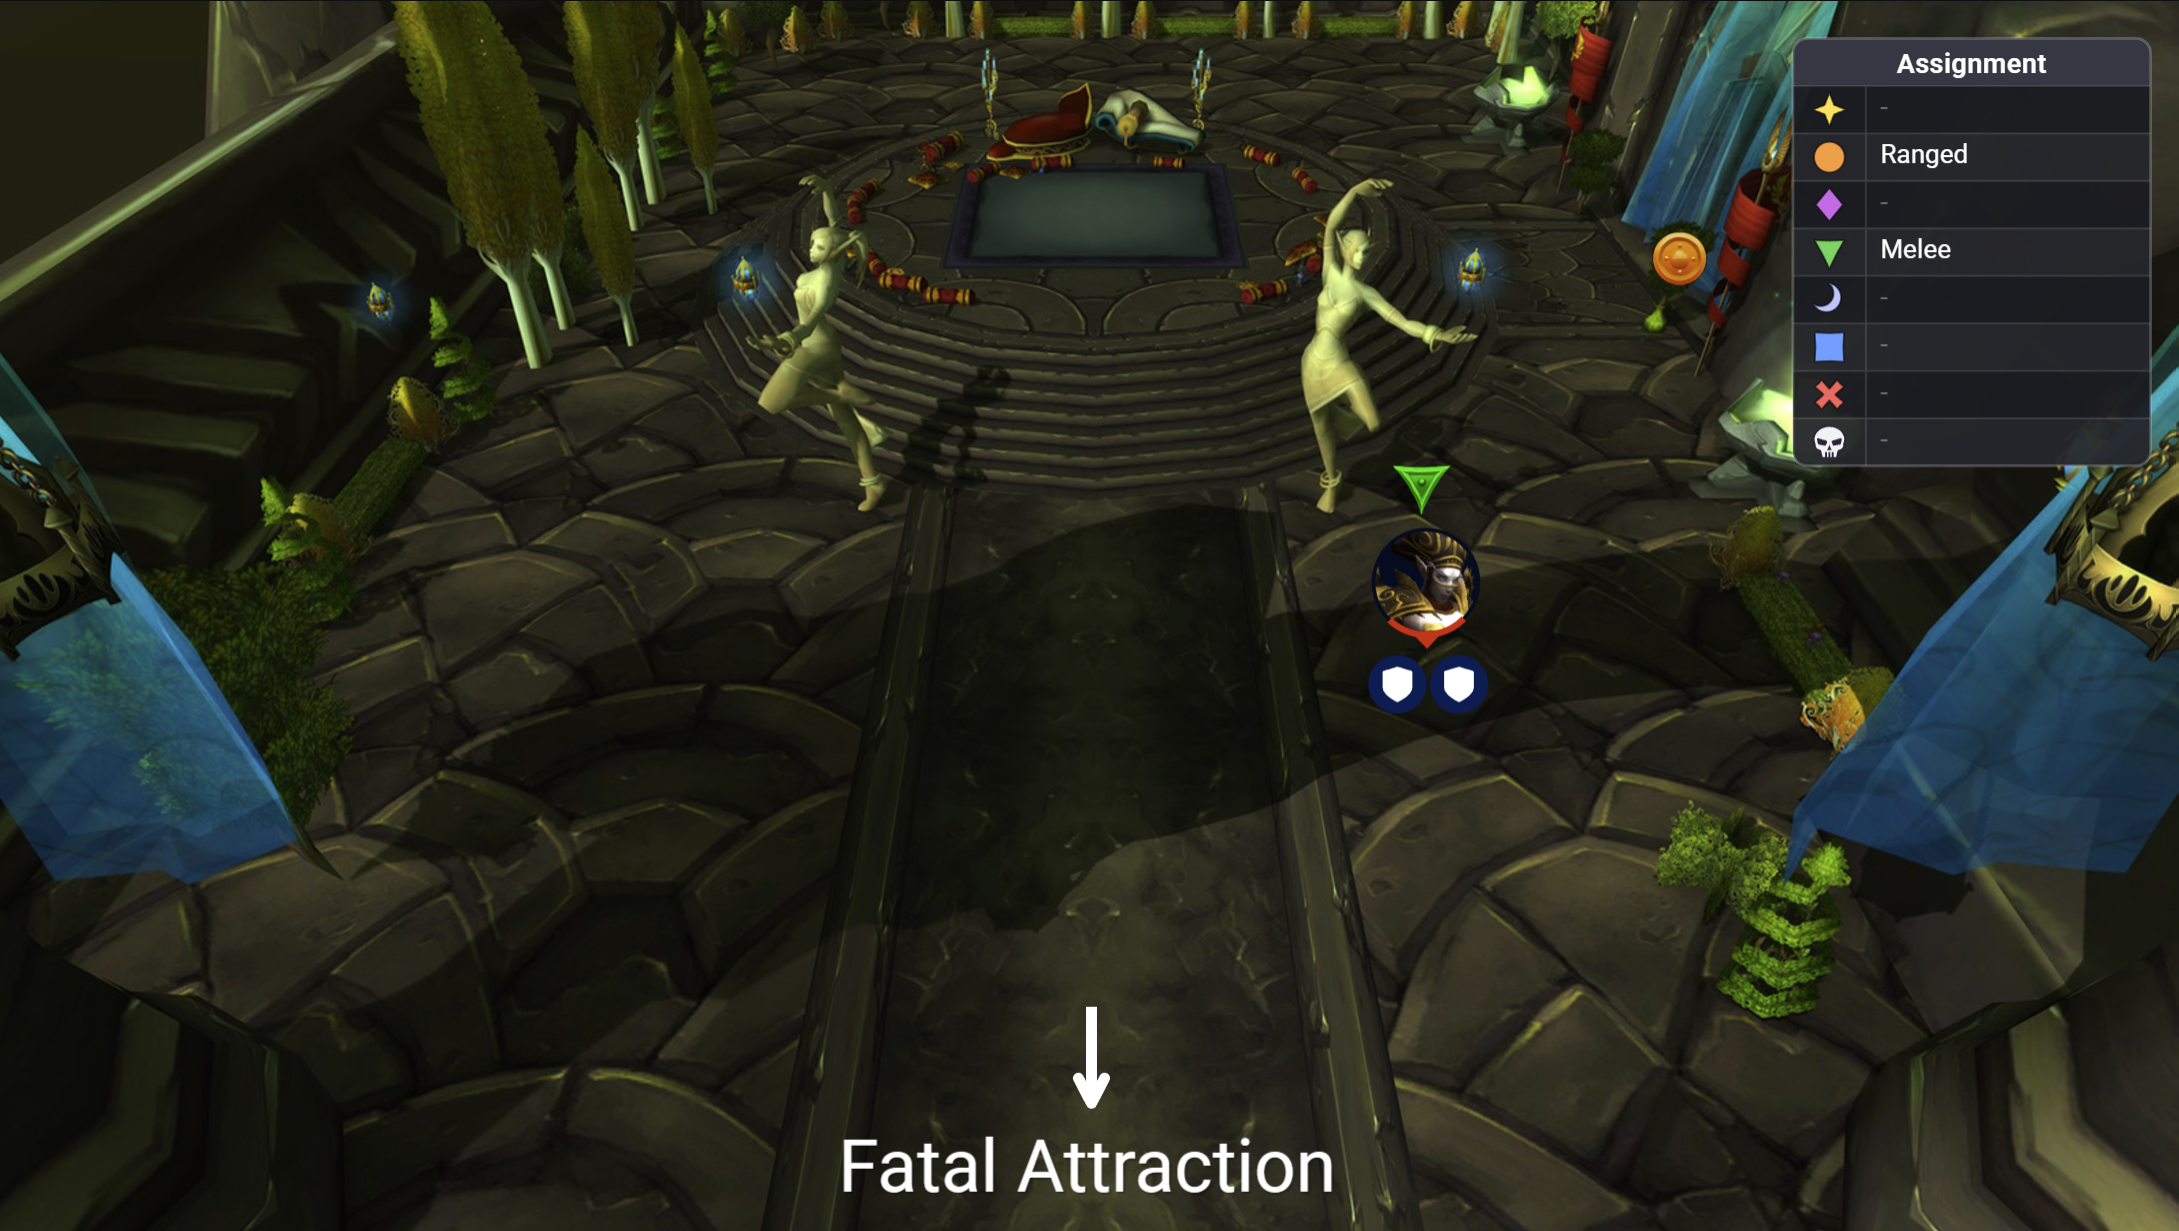
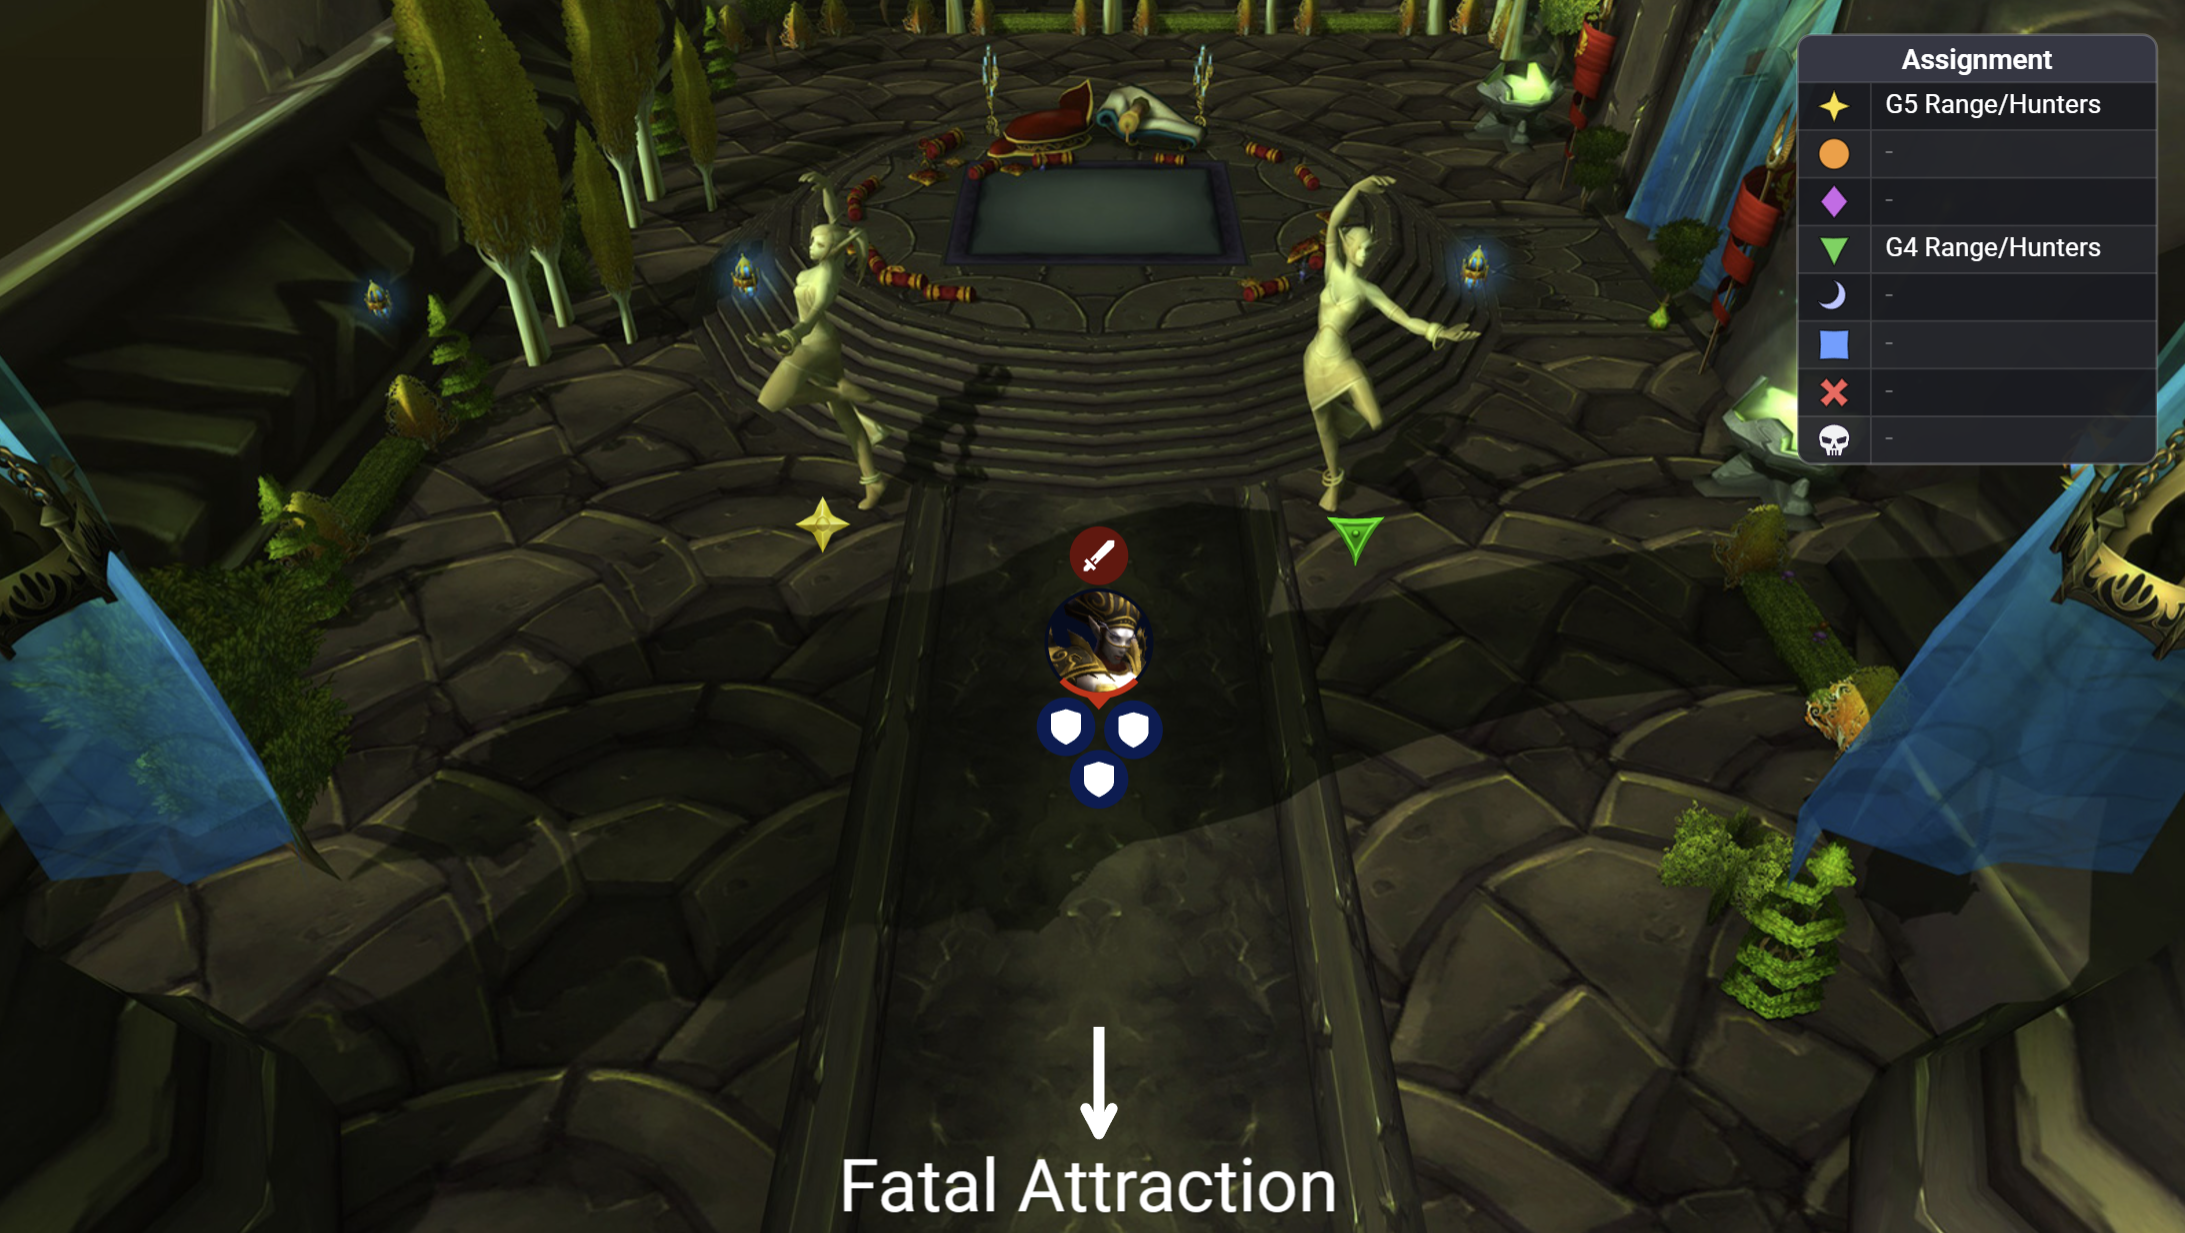
Guides: swap Mother Shahraz image for final + revise positioning
Use the new "mother shazzz final" diagram for the seventh Black Temple boss
and rework the first and last positioning bullets: tanks stack running in
to soak Saber Lash, and ranged stack under the bent knee / extended hand to
prevent knock-up.

Claude-Session: https://claude.ai/code/session_01ET5JrFwNNN5UEwmSJb6qif

diff --git a/app/guides/black-temple/bosses.ts b/app/guides/black-temple/bosses.ts
@@ -862,10 +862,10 @@ const SHAHRAZ: Boss = {
         },
       ],
       positioning: [
-        "Position Mother Shahraz in front of the right statue. Melee get under the extended hand to reduce knock-up.",
+        "Tanks must be stacked running in to soak Saber Lash.",
         "Face her away from the raid.",
         "Healers ready for large bursts of raid damage after Fatal Attraction.",
-        "Ranged stack underneath the closed exitway leading to Council and tuck in the back corner.",
+        "Ranged groups stack in their respective stacks under the bent knee or extended hand to prevent knock up.",
       ],
     },
     {
